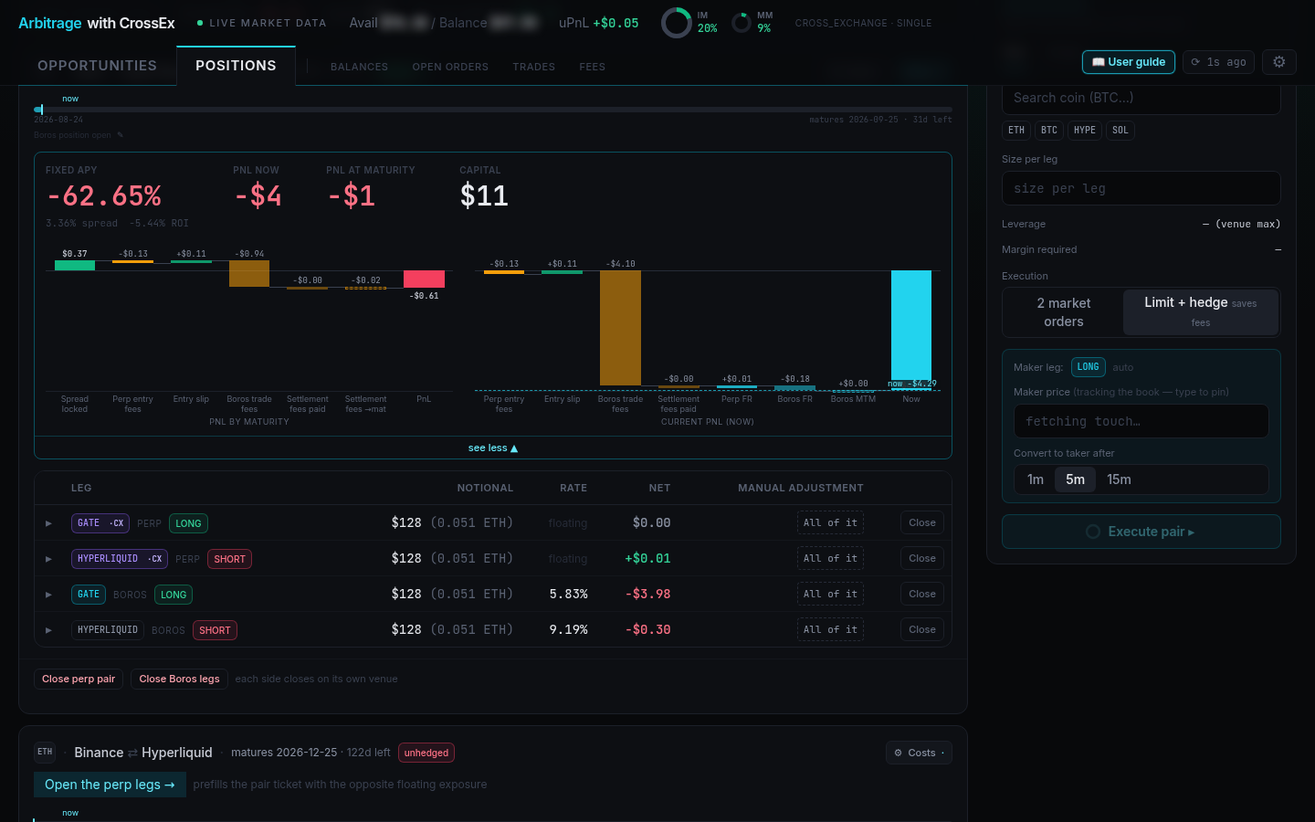
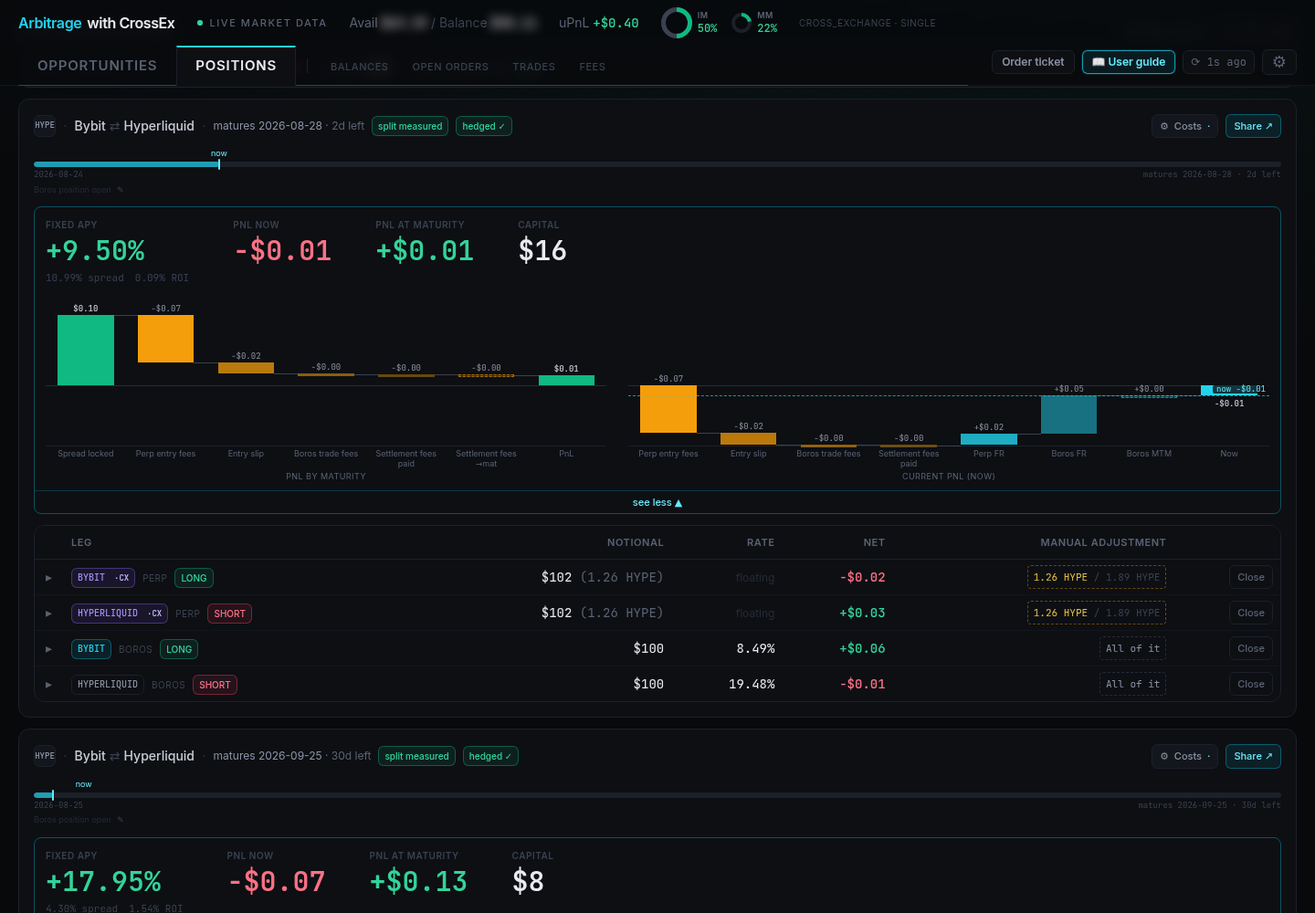
updated to 1.4.0

diff --git a/i18n/cn/docusaurus-plugin-content-docs-boros-docs/current/arbitrage-with-crossex/opening-a-position.md b/i18n/cn/docusaurus-plugin-content-docs-boros-docs/current/arbitrage-with-crossex/opening-a-position.md
@@ -7,7 +7,7 @@ import Hint from '@site/src/components/Hint';
 
 # 开仓
 
-交易的两个部分都在终端内执行：Boros 上的**利率腿**，以及通过 CrossEx 执行的**永续腿**。推荐顺序始终是**先锁定利率，再对冲永续腿**——Boros 的价格冲击更大且更难预测，因此应先锁定利差，再投入永续腿。
+交易的两个部分都在终端内执行：Boros 上的**利率腿**，以及通过 CrossEx 执行的**永续腿**。引导式向导会按正确顺序带你完成两步——**先锁定利率，再对冲永续腿**——因为 Boros 的价格冲击更大且更难预测，应先锁定利差，再投入永续腿。
 
 ## 阅读机会扫描（Opportunities scan）
 
@@ -37,7 +37,7 @@ Opportunities 标签页列出当前可用的固定利差，每一项都按你选
 
 **Perp exit cost（永续腿平仓成本）**
 
-- **Close positions（平仓）** — 假设你在到期时平掉永续腿并支付相应手续费。
+- **Close positions（平仓）** — 假设你在到期时平掉永续腿。
 - **Roll over（展期）** — 假设你保留永续腿并滚动进入下一到期日，从而完全省去一轮永续腿手续费。
 
 **Boros entry（Boros 入场方式）**
@@ -63,27 +63,36 @@ Opportunities 标签页列出当前可用的固定利差，每一项都按你选
 此处的 APR 是按各腿所需的**最低**资本建模的。而 Positions 标签页会除以你实际投入的 Boros 保证金，因此一个超额抵押的实际仓位，其显示的 APR 会低于同一笔交易的估算值。
 </Hint>
 
-## 第一步 —— 在 Boros 上锁定利率
+## 开启策略
 
-点击机会卡片上的 **Lock the rate**，两条 Boros 腿会被载入 **Boros rates** 订单面板。
+点击机会卡片上的 **Open this strategy →**，会启动一个两步向导，带你完成交易的两个部分，且各条腿已根据你选择的机会预先填好。
 
-![Boros rates ticket](/boros-docs/imgs/arbitrage-with-crossex/boros-rates-ticket.png "Boros rates ticket")
+![Strategy wizard](/boros-docs/imgs/arbitrage-with-crossex/strategy-wizard.png "Strategy wizard")
 
-检查 **Leg A** 和 **Leg B**——每条腿对应一个市场与到期日，并各自有 Long/Short 方向——然后设置 **Size per leg（每条腿规模）**，将模式保持在 **Open**，并设置 **Max slippage (% APR)**，用于限制每条腿相对报价利率的最大成交偏离。点击 **Confirm — 2 Boros market orders** 发送订单。
+### 第一步 —— 锁定利率（Boros）
 
-两个市场必须使用相同的抵押品和到期日。你也可以单独使用该面板平掉利率腿（切换到 **Close**，该模式为只减仓），或通过 **Single** 标签页开出单条腿。
+向导首先进入 Boros 步骤，两条利率腿均已预填。检查 **Leg A** 和 **Leg B**——每条腿对应一个市场与到期日，并各自有 Long/Short 方向——然后确认 **Size per leg（每条腿规模）**，将模式保持在 **Open**，并设置 **Max slippage (% APR)**，用于限制每条腿相对报价利率的最大成交偏离。
+
+在你确认之前，**ESTIMATED SPREAD（预估利差）** 面板会展示你即将锁定的内容：
+
+- 预估利差，以及在你设定的滑点上限下的**最差情形（Worst case）**
+- 每条腿各自的利率
+- **taker 手续费**、两条腿所需的**保证金**，以及**预付 gas**
+- 每条腿由此产生的仓位变化
+
+点击 **Confirm — 2 Boros market orders** 发送订单，向导随后进入第二步。
 
 <Hint style="info">
-若想改善所锁定的利差，可考虑在一条 Boros 腿上挂限价单，另一条以市价单成交，而非两条都吃单。这有时能带来可观的 APR 提升——不过遇到明显优质的机会时，也值得立即成交，以免被其他用户抢先。
+市场下拉框只列出能与另一条腿配对的市场——向导会隐藏那些抵押品或到期日不匹配的市场，并告知隐藏了多少个。
 </Hint>
 
-## 第二步 —— 在 CrossEx 上对冲永续腿
+### 第二步 —— 对冲永续腿（Gate CrossEx）
 
-锁定利率后，点击 **Hedge the perps**，将永续腿载入 **CrossEx perps** 面板。设置 **Size per leg**，然后选择执行方式。
+锁定利率后，向导进入永续腿步骤。设置规模，然后选择执行方式。
 
 **2 market orders** 会立即开出两条腿——操作简单，适合你希望确保成交的情况。
 
-**Limit + hedge** 是默认选项，可节省手续费。系统会自动选择挂单方向，使总手续费最低。点击 **Execute pair** 后：
+**Limit + hedge** 是默认选项，可节省手续费。系统会自动选择挂单方向，使总手续费最低。启动后：
 
 1. 系统按挂单价格挂出限价单——默认略优于盘口价格，并会跟随盘口移动，直到你手动输入价格将其固定。
 2. 每当该限价单全部或部分成交，成交部分会立即在另一交易所以市价单对冲。
@@ -96,5 +105,16 @@ Opportunities 标签页列出当前可用的固定利差，每一项都按你选
 </Hint>
 
 两步完成后，你就持有了全部四条腿，**Positions** 标签页会显示你锁定的利率以及到期前的预估回报。
+
+## 订单面板（Order ticket）
+
+若要在引导流程之外交易，点击页首的 **Order ticket**。它会以侧边面板打开，包含同样的两个下单页：
+
+![Order ticket panel](/boros-docs/imgs/arbitrage-with-crossex/order-ticket-panel.png "Order ticket panel")
+
+- **CrossEx perps** — 选择币种，设置每条腿规模，选择执行方式，然后 **Execute pair**。**Single** 标签页可单独开出一条腿。
+- **Boros rates** — 选择两个使用相同抵押品与到期日的市场，设置方向、规模和最大滑点，然后确认。
+
+这适合希望在锁定利率前先建立永续价差的交易者，或希望通过特定限价单实现更进阶执行的交易者。如果你刚接触资金费率套利，建议使用引导式向导。
 
 下一步：[监控与平仓](./monitoring-and-closing)

diff --git a/docs/boros-docs/arbitrage-with-crossex/opening-a-position.md b/docs/boros-docs/arbitrage-with-crossex/opening-a-position.md
@@ -2,7 +2,7 @@ import Hint from '@site/src/components/Hint';
 
 # Opening a Position
 
-Both halves of the trade are executed from the terminal: the **rate legs** on Boros and the **perp legs** through CrossEx. The recommended order is always **lock the rate first, then hedge the perps** — Boros price impact is higher and less predictable, so you want the spread secured before committing to the perp side.
+Both halves of the trade are executed from the terminal: the **rate legs** on Boros and the **perp legs** through CrossEx. The guided wizard walks you through both in the right order — **lock the rate first, then hedge the perps** — since Boros price impact is higher and less predictable, so you want the spread secured before committing to the perp side.
 
 ## Reading the Opportunities scan
 
@@ -58,27 +58,36 @@ Below that, two waterfall charts: **profit by maturity**, itemising the gross sp
 The APR here is modelled against the *minimum* capital the legs require. The Positions tab divides by the Boros collateral you have actually posted, so a live, over-collateralised position will read a lower APR than the estimate for the very same trade.
 </Hint>
 
-## Step 1 — Lock the rate on Boros
+## Opening the strategy
 
-Click **Lock the rate** on the opportunity. This loads the two Boros legs into the **Boros rates** order ticket.
+Click **Open this strategy →** on an opportunity. This launches a two-step wizard that carries you through both halves of the trade, with the legs already filled in from the opportunity you picked.
 
-![Boros rates ticket](/boros-docs/imgs/arbitrage-with-crossex/boros-rates-ticket.png "Boros rates ticket")
+![Strategy wizard](/boros-docs/imgs/arbitrage-with-crossex/strategy-wizard.png "Strategy wizard")
 
-Check **Leg A** and **Leg B** — each is a market and maturity, with its own Long/Short side — then set **Size per leg**, keep the mode on **Open**, and set **Max slippage (% APR)**, which caps how far each leg may fill from the quoted rate. Click **Confirm — 2 Boros market orders** to send them.
+### Step 1 — Lock the rate (Boros)
 
-The two markets must share a collateral and maturity. You can also use this ticket standalone to close rate legs (switch to **Close**, which is reduce-only) or to open a single leg via the **Single** tab.
+The wizard opens on the Boros step with both rate legs prefilled. Check **Leg A** and **Leg B** — each is a market and maturity with its own Long/Short side — then confirm the **Size per leg**, keep the mode on **Open**, and set **Max slippage (% APR)**, which caps how far each leg may fill from the quoted rate.
+
+Before you commit, the **ESTIMATED SPREAD** panel shows what you're about to lock:
+
+- the estimated spread, and the **worst case** given your slippage cap
+- each leg's rate
+- the **taker fee**, the **margin required** for both legs, and the **prepaid gas**
+- the resulting position change on each leg
+
+Click **Confirm — 2 Boros market orders** to send them. The wizard then advances to step 2.
 
 <Hint style="info">
-To improve the spread you lock, consider resting a limit order on one Boros leg and market-ordering the other, rather than taking both at market. Sometimes this is worth a good deal of APR — though a clearly good opportunity may be worth taking immediately before someone else does.
+The market dropdowns only list markets that can pair with the other leg — the wizard hides those that don't share a collateral and maturity, and tells you how many it hid.
 </Hint>
 
-## Step 2 — Hedge the perps on CrossEx
+### Step 2 — Hedge the perps (Gate CrossEx)
 
-With the rate locked, click **Hedge the perps** to load the perp legs into the **CrossEx perps** ticket. Set **Size per leg**, then choose an execution mode.
+With the rate locked, the wizard moves to the perp leg. Set the size, then choose an execution mode.
 
 **2 market orders** opens both legs immediately — simple, and the right choice when you want certainty of fill.
 
-**Limit + hedge** is the default and saves fees. The maker side is chosen automatically to minimise the total fee bill. After you click **Execute pair**:
+**Limit + hedge** is the default and saves fees. The maker side is chosen automatically to minimise the total fee bill. Once running:
 
 1. A limit order is placed at the maker price — set just beyond the touch by default, and tracking the book until you type a price to pin it.
 2. Each time it fills, in whole or in part, the filled amount is immediately hedged with a market order on the other venue.
@@ -91,5 +100,16 @@ Execute a small test size first to get familiar with the flow before trading mea
 </Hint>
 
 Once both steps are done you hold all four legs, and the **Positions** tab shows your locked rate and estimated return until maturity.
+
+## The order ticket
+
+To trade outside the guided flow, click **Order ticket** in the header. It opens as a side panel with the same two tickets:
+
+![Order ticket panel](/boros-docs/imgs/arbitrage-with-crossex/order-ticket-panel.png "Order ticket panel")
+
+- **CrossEx perps** — pick a coin, set size per leg, choose the execution mode, and **Execute pair**. The **Single** tab opens one leg on its own.
+- **Boros rates** — pick two markets sharing a collateral and maturity, set sides, size, and max slippage, and confirm.
+
+This suits traders who want to set up a perp spread before locking rates, or who want specific limit orders for more advanced execution. If you're new to funding rate arbitrage, use the guided wizard instead.
 
 Next: [Monitoring & Closing Positions](./monitoring-and-closing)

diff --git a/docs/boros-docs/arbitrage-with-crossex/monitoring-and-closing.md b/docs/boros-docs/arbitrage-with-crossex/monitoring-and-closing.md
@@ -10,7 +10,7 @@ Once open, a 4-leg position needs little maintenance — the main decision is wh
 
 At the top, **BOROS-TRACKED TOTALS** summarises every tracked position: **Current PnL**, **Capital**, and **Est. by maturity**.
 
-Each position box is headed by the coin, the venue pair (e.g. `Gate ⇄ Hyperliquid`), the maturity with days remaining, and a status chip — `hedged ✓` when all four legs are in place, or `unhedged` when they aren't. Below that sit the headline numbers:
+Each position box is headed by the coin, the venue pair (e.g. `Gate ⇄ Hyperliquid`), the maturity with days remaining, and a status chip — `hedged ✓` when all four legs are in place, `partial hedge` when every leg is open in the right direction but the sizes don't match, or `unhedged` when legs are missing. Below that sit the headline numbers:
 
 - **FIXED APY** — the locked annualised return, with the underlying spread and ROI beneath it
 - **PNL NOW** — mark-to-market profit or loss today
@@ -20,7 +20,7 @@ Each position box is headed by the coin, the venue pair (e.g. `Gate ⇄ Hyperliq
 The leg table lists all four legs — both `·CX` perp legs and both `BOROS` rate legs — with notional, rate (`floating` for perps, the locked rate for Boros legs), and net PnL.
 
 <Hint style="info">
-A position only shows a rate, capital, and ROI once every leg is in place. A partially built position reads **Incomplete position**, and an `unhedged` box offers **Open the perp legs →**, which prefills the pair ticket with the opposite floating exposure.
+A position only shows a rate, capital, and ROI once every leg is in place. A partially built one reads **Incomplete position**, and a mismatched one reads **Sizes don't match** — every leg is open in the right direction, but only the matched part is hedged. An `unhedged` box offers **Open the perp legs →**, which prefills the pair ticket with the opposite floating exposure.
 </Hint>
 
 ## Closing a position
@@ -30,7 +30,7 @@ Each side closes on its own venue, using the two buttons at the bottom of the po
 - **Close perp pair** — closes both CrossEx perp legs together.
 - **Close Boros legs** — closes both Boros rate legs.
 
-For finer control, the **MANUAL ADJUSTMENT** column on each leg row has **All of it** and **Close**, letting you close a single leg or part of one rather than the whole side.
+For finer control, the **MANUAL ADJUSTMENT** column on each leg row lets you close a single leg rather than the whole side. It shows **All of it** when the whole leg belongs to this position, or the matched size against the venue total (e.g. `1.26 HYPE / 1.89 HYPE`) when the leg is shared with another strategy.
 
 <Hint style="info">
 Because of the leverage on the perp legs, you may receive Initial Margin Ratio (IMR) alert emails from Gate. As the positions are delta-neutral, liquidation risk stays very low barring price dislocation across venues.
@@ -44,11 +44,6 @@ To roll over: close only the Boros legs at maturity, open new Boros legs at the 
 
 ## Using the order ticket directly
 
-Both tickets can be driven manually, outside the guided Opportunities flow:
-
-- **CrossEx perps** — pick a coin, set size per leg, choose market or limit + hedge, and **Execute pair**. The **Single** tab opens one leg on its own.
-- **Boros rates** — pick two markets sharing a collateral and maturity, set sides, size, and max slippage, and confirm.
-
-This suits traders who want to set up a perp spread before locking rates, or who want specific limit orders for more advanced execution. If you're new to funding rate arbitrage, use the guided Opportunities flow instead.
+Click **Order ticket** in the header to open the side panel and trade either side manually, outside the guided wizard — useful for topping up a leg or unwinding part of a position. See [the order ticket](./opening-a-position#the-order-ticket) for what each tab does.
 
 Next: [Understanding Position PnL](./position-pnl)

diff --git a/i18n/cn/docusaurus-plugin-content-docs-boros-docs/current/arbitrage-with-crossex/monitoring-and-closing.md b/i18n/cn/docusaurus-plugin-content-docs-boros-docs/current/arbitrage-with-crossex/monitoring-and-closing.md
@@ -15,7 +15,7 @@ import Hint from '@site/src/components/Hint';
 
 顶部的 **BOROS-TRACKED TOTALS** 汇总所有被追踪的仓位：**Current PnL（当前盈亏）**、**Capital（资本）** 和 **Est. by maturity（到期预估）**。
 
-每个仓位方框的标题显示币种、交易所组合（例如 `Gate ⇄ Hyperliquid`）、到期日及剩余天数，以及状态标识——四条腿齐备时显示 `hedged ✓`，否则显示 `unhedged`。其下是主要数字：
+每个仓位方框的标题显示币种、交易所组合（例如 `Gate ⇄ Hyperliquid`）、到期日及剩余天数，以及状态标识——四条腿齐备时显示 `hedged ✓`；各条腿方向均正确但规模不匹配时显示 `partial hedge`；有腿缺失时显示 `unhedged`。其下是主要数字：
 
 - **FIXED APY** — 锁定的年化回报，下方附有对应利差与 ROI
 - **PNL NOW** — 当前的浮动盈亏
@@ -25,7 +25,7 @@ import Hint from '@site/src/components/Hint';
 腿表格列出全部四条腿——两条 `·CX` 永续腿和两条 `BOROS` 利率腿——并显示名义本金、利率（永续腿为 `floating`，Boros 腿为锁定利率）以及净盈亏。
 
 <Hint style="info">
-只有当全部四条腿齐备时，仓位才会显示利率、资本和 ROI。尚未建全的仓位会显示 **Incomplete position**；`unhedged` 方框则提供 **Open the perp legs →** 按钮，可用相反的浮动敞口预填对交易面板。
+只有当全部四条腿齐备时，仓位才会显示利率、资本和 ROI。尚未建全的仓位会显示 **Incomplete position**；规模不匹配的仓位会显示 **Sizes don't match**——各条腿方向均正确，但只有匹配的部分被对冲。`unhedged` 方框则提供 **Open the perp legs →** 按钮，可用相反的浮动敞口预填对交易面板。
 </Hint>
 
 ## 平掉仓位
@@ -35,7 +35,7 @@ import Hint from '@site/src/components/Hint';
 - **Close perp pair** — 同时平掉两条 CrossEx 永续腿。
 - **Close Boros legs** — 平掉两条 Boros 利率腿。
 
-若需更精细的控制，每一行腿的 **MANUAL ADJUSTMENT** 列提供 **All of it** 和 **Close**，可只平掉单条腿或其中一部分，而非整侧。
+若需更精细的控制，每一行腿的 **MANUAL ADJUSTMENT** 列可只平掉单条腿，而非整侧。当整条腿都属于该仓位时显示 **All of it**；当该腿与其他策略共享时，则显示匹配规模与交易所总量之比（例如 `1.26 HYPE / 1.89 HYPE`）。
 
 <Hint style="info">
 由于永续腿使用了杠杆，你可能会收到 Gate 关于初始保证金率（IMR）的提醒邮件。由于仓位是市场中性的，除非出现跨交易所的价格错位，否则清算风险极低。
@@ -49,11 +49,6 @@ import Hint from '@site/src/components/Hint';
 
 ## 直接使用订单面板
 
-两个订单面板都可以手动操作，无需经过引导式的 Opportunities 流程：
-
-- **CrossEx perps** — 选择币种，设置每条腿规模，选择市价单或 limit + hedge，然后 **Execute pair**。**Single** 标签页可单独开出一条腿。
-- **Boros rates** — 选择两个使用相同抵押品与到期日的市场，设置方向、规模和最大滑点，然后确认。
-
-这适合希望在锁定利率前先建立永续价差的交易者，或希望通过特定限价单实现更进阶执行的交易者。如果你刚接触资金费率套利，建议使用引导式 Opportunities 流程。
+点击页首的 **Order ticket** 打开侧边面板，即可在引导式向导之外手动操作任意一侧——适合为某条腿加仓，或部分平掉某个仓位。各下单页的说明详见[订单面板](./opening-a-position#订单面板order-ticket)。
 
 下一步：[理解仓位盈亏](./position-pnl)

diff --git a/i18n/cn/docusaurus-plugin-content-docs-boros-docs/current/arbitrage-with-crossex/connecting-terminal.md b/i18n/cn/docusaurus-plugin-content-docs-boros-docs/current/arbitrage-with-crossex/connecting-terminal.md
@@ -27,11 +27,11 @@ import Hint from '@site/src/components/Hint';
 
 ## 3. Boros 代理密钥（Agent key）
 
-若要直接从终端下达 Boros 订单，请将订单面板切换到 **Boros rates** 标签页，并接入一个**委托代理密钥（delegated agent key）**。
+若要直接从终端下达 Boros 订单，需接入一个**委托代理密钥（delegated agent key）**。点击页首的 **Order ticket** 并切换到 **Boros rates** 标签页，密钥面板位于顶部。该面板同样出现在[策略向导](./opening-a-position#开启策略)的 Boros 步骤中。
 
-![Boros rates ticket](/boros-docs/imgs/arbitrage-with-crossex/boros-rates-ticket.png "Boros rates ticket")
+![Order ticket panel](/boros-docs/imgs/arbitrage-with-crossex/order-ticket-panel.png "Order ticket panel")
 
-代理密钥用于签署你的 Boros 订单。接入后，该标签页会显示 **trading enabled** 标识、代理地址，以及授权到期日期。点击 **Remove key** 可撤销该密钥。
+代理密钥用于签署你的 Boros 订单。接入后，该面板会显示 **trading enabled** 标识、代理地址，以及授权到期日期。点击 **Remove key** 可撤销该密钥。
 
 <Hint style="info">
 委托代理密钥可以交易该账户，但**无法存入或提取资金**——资金划转始终需要你本人的钱包。这与 Boros 官方前端所使用的代理密钥机制相同。

diff --git a/docs/boros-docs/arbitrage-with-crossex/connecting-terminal.md b/docs/boros-docs/arbitrage-with-crossex/connecting-terminal.md
@@ -22,11 +22,11 @@ This is read-only: the terminal matches your Boros positions to your Gate perp l
 
 ## 3. Boros agent key
 
-To place Boros orders from the terminal itself, switch the order ticket to the **Boros rates** tab and connect a **delegated agent key**.
+To place Boros orders from the terminal itself, connect a **delegated agent key**. Open **Order ticket** in the header and switch to the **Boros rates** tab — the key panel sits at the top. It also appears on the Boros step of the [strategy wizard](./opening-a-position#opening-the-strategy).
 
-![Boros rates ticket](/boros-docs/imgs/arbitrage-with-crossex/boros-rates-ticket.png "Boros rates ticket")
+![Order ticket panel](/boros-docs/imgs/arbitrage-with-crossex/order-ticket-panel.png "Order ticket panel")
 
-The agent key signs your Boros orders. Once it's connected the tab shows a **trading enabled** badge, the agent address, and the date the approval expires. **Remove key** revokes it.
+The agent key signs your Boros orders. Once it's connected the panel shows a **trading enabled** badge, the agent address, and the date the approval expires. **Remove key** revokes it.
 
 <Hint style="info">
 A delegated agent key can trade the account but **cannot deposit or withdraw** — moving funds always needs your actual wallet. This is the same agent-key mechanism Boros uses on its own front end.

diff --git a/i18n/cn/docusaurus-plugin-content-docs-boros-docs/current/arbitrage-with-crossex/risks-and-security.md b/i18n/cn/docusaurus-plugin-content-docs-boros-docs/current/arbitrage-with-crossex/risks-and-security.md
@@ -26,7 +26,7 @@ Arbitrage with CrossEx 是 Pendle 发布的免费开源**实验性软件**。它
 - **应用无法通过网络访问。** 服务器仅绑定 `127.0.0.1`，并拒绝 Host/Origin 不是 localhost 的请求。
 - **无遥测、无数据分析。** 唯一的对外流量是发往 Gate 官方 API、相关交易所的公开行情接口，以及一个定期对 GitHub 的版本检查请求，用于显示"有可用更新"（可通过 `UPDATE_CHECK=0` 关闭）。
 - **无法提现你的资金。** 只要你按照 [设置 CrossEx 与 API Key](./setup-api-key) 中的说明创建 API 密钥，Gate 会在账户层面强制执行这一限制，与应用本身的行为无关。
-- **Boros 代理密钥同样无法划转资金。** 用于签署 Boros 订单的委托密钥可以交易该账户，但无法存入或提取资金——这些操作需要你本人的钱包。你可以随时在 Boros rates 面板中点击 **Remove key** 撤销该密钥，且该授权本身带有到期日期。
+- **Boros 代理密钥同样无法划转资金。** 用于签署 Boros 订单的委托密钥可以交易该账户，但无法存入或提取资金——这些操作需要你本人的钱包。你可以随时在订单面板的 Boros rates 标签页中点击 **Remove key** 撤销该密钥，且该授权本身带有到期日期。
 
 ## 自行验证该软件
 

diff --git a/docs/boros-docs/arbitrage-with-crossex/risks-and-security.md b/docs/boros-docs/arbitrage-with-crossex/risks-and-security.md
@@ -21,7 +21,7 @@ Using CrossEx gives delta-neutral positioning on the perp legs of the arbitrage,
 - **The app isn't reachable over your network.** The server binds to `127.0.0.1` only and rejects requests whose Host/Origin isn't localhost.
 - **No telemetry, no analytics.** The only outbound traffic is to Gate's official API, public market-data endpoints for the venues involved, and a periodic version check against GitHub to show "update available" (`UPDATE_CHECK=0` disables it).
 - **It can't withdraw your funds.** If you created the API key as described in [Setting up CrossEx & API Key](./setup-api-key), Gate enforces this at the account level regardless of anything the app does.
-- **The Boros agent key can't move funds either.** The delegated key that signs your Boros orders can trade the account but cannot deposit or withdraw — those need your actual wallet. You can revoke it at any time with **Remove key** in the Boros rates ticket, and the approval carries an expiry date.
+- **The Boros agent key can't move funds either.** The delegated key that signs your Boros orders can trade the account but cannot deposit or withdraw — those need your actual wallet. You can revoke it at any time with **Remove key** in the order ticket's Boros rates tab, and the approval carries an expiry date.
 
 ## Verifying the software yourself
 

diff --git a/docs/boros-docs/arbitrage-with-crossex/overview.md b/docs/boros-docs/arbitrage-with-crossex/overview.md
@@ -34,7 +34,7 @@ With leverage, this can be a lucrative yield farm — but coordinating collatera
 Arbitrage with CrossEx integrates both CrossEx and Boros so a trader can:
 
 - **Scan opportunities** — see live fixed-rate spreads across venues, with potential returns and required margin calculated automatically
-- **Execute all four legs** — lock the fixed rate on Boros, then hedge the perp legs through CrossEx, without leaving the dashboard
+- **Execute all four legs** — a guided wizard locks the fixed rate on Boros, then hedges the perp legs through CrossEx, without leaving the dashboard
 - **Monitor** margin, PnL, and yield across the whole 4-leg position from a single dashboard, with a full breakdown of every cost charged against the return
 
 <Hint style="warning">
